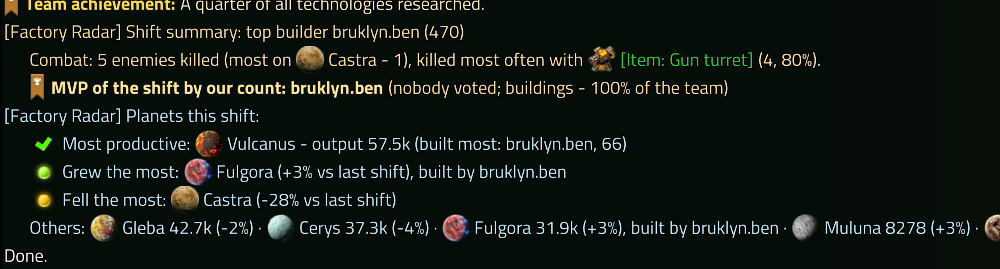
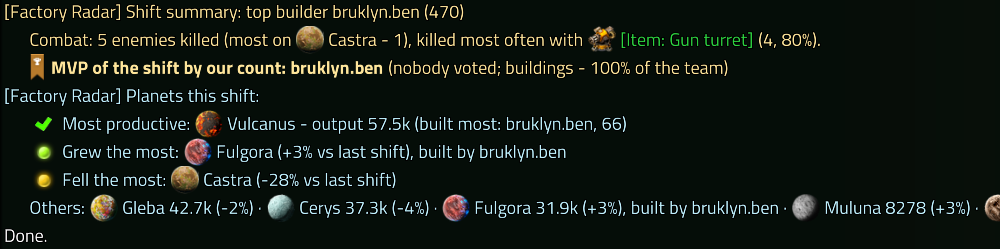
Shift summary picture starts at its first line; chat texts match the audience

Changed region(s): [[0.0, 0.0, 1.0, 0.8996], [0.0, 0.9277, 0.062, 0.9839]]

diff --git a/portal/description.md b/portal/description.md
@@ -109,11 +109,11 @@ Click a name and you get the card of the player.
 
 *The Titles tab: the titles you earned and the one that shows in chat.*
 
-When you earn something, the chat tells everybody (you can switch these messages off for yourself).
+A new title is announced in chat to everybody, a personal achievement only to the player who got it, a team achievement to the whole team. Every player can switch these messages off for themselves.
 
 ![Chat messages](https://raw.githubusercontent.com/Clayn-dot/factory-radar/main/portal/images/IMG-13-achievements-chat.png)
 
-*In chat: a new title, a personal achievement and the achievements of the whole team.*
+*In chat (as the player who got them sees it): a new title, a personal achievement and the achievements of the whole team.*
 
 ## Shifts and MVP
 
